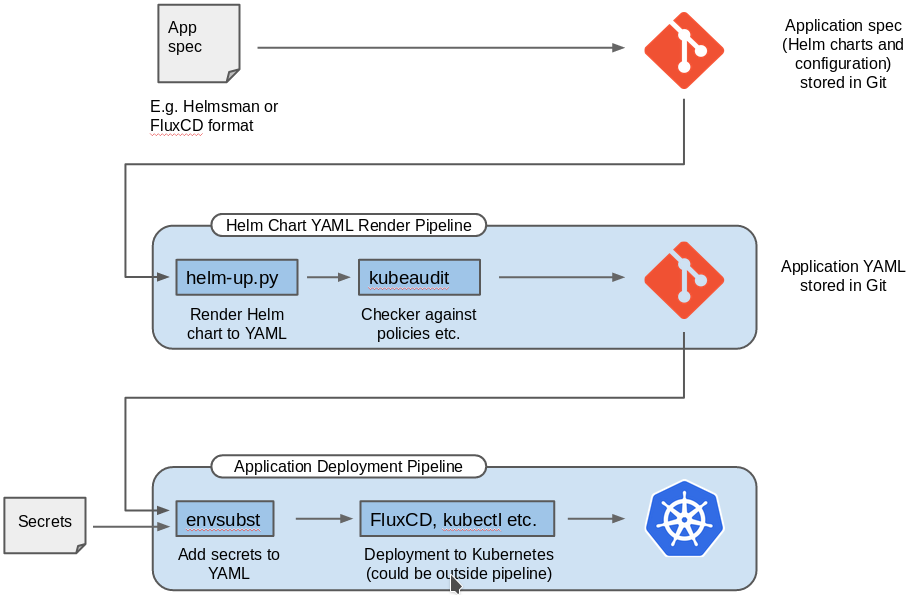
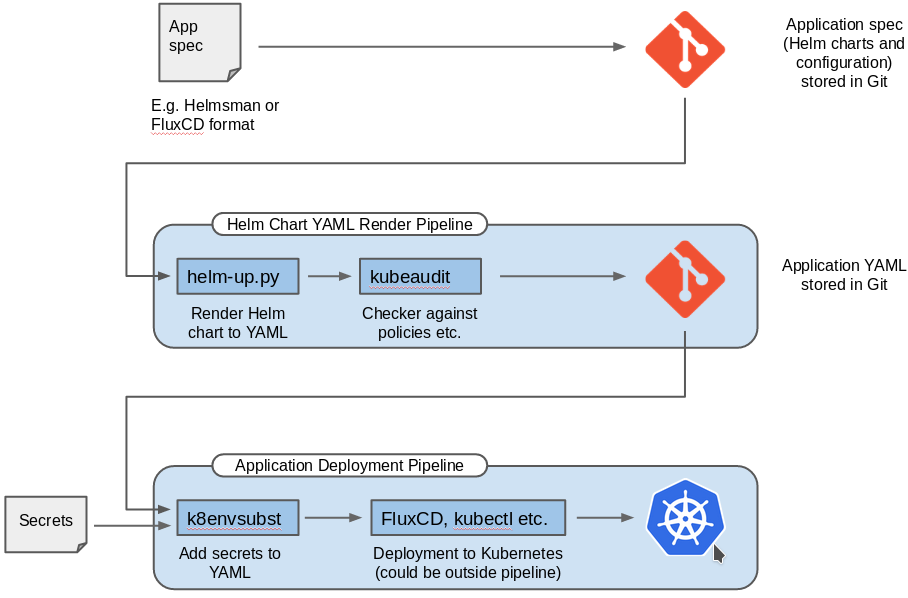
Update environment variable handling, update docs

diff --git a/k8envsubst.py b/k8envsubst.py
@@ -1,0 +1,27 @@
+#!/usr/bin/env python3
+
+import sys, os
+import string
+import yaml
+import logging
+import base64
+
+def main():
+    inp = open(0).read()
+    resources = inp.split('---\n')
+    logging.debug('Found {} resource elements'.format(len(resources)))
+    patched_resources = []
+    for res in resources:
+        res = string.Template(res).safe_substitute(os.environ)
+        res = yaml.load(res, Loader=yaml.FullLoader)
+        if res:
+            if 'kind' in res and 'data' in res and res['kind']=='Secret':
+                for k,v64 in res['data'].items():
+                    v = base64.b64decode(v64)
+                    vrep = string.Template(v.decode('UTF-8','ignore')).safe_substitute(os.environ).encode('UTF-8')
+                    res['data'][k] = base64.b64encode(vrep).decode('UTF-8','ignore')
+            patched_resources.append(yaml.dump(res, default_flow_style=False)) # FIXME, Use Kubernetes natural sort order
+    print('---\n'.join(patched_resources))
+
+if __name__ == "__main__":
+   sys.exit(main())

diff --git a/README.md b/README.md
@@ -53,7 +53,7 @@ helm2yaml.py --render-to final-app.yaml helmsman -f helmsman-app-spec.yaml
 kubectl apply -f final-app.yaml
 ```
 
-Similarly wuth Flux application specs:
+Similarly wuth FluxCD application specs:
 
 ```
 helm2yaml.py --render-to final-app.yaml fluxcd -f fluxcd-app-spec.yaml
@@ -64,6 +64,27 @@ and here `final-app.yaml` could be retained for the audit trail.  If the final
 YAML is retained in e.g. git, the `kubectl apply` command could be replaced by
 deployment on Kubernetes with Flux in a non-Helm mode, i.e. GitOps with an audit
 trail.
+
+#### Handling Secrets
+
+If the application deployment contains secrets which should not be included in
+the rendered YAML, these secrets could be injected at the YAML deployment stage
+using e.g. `envsubst`. Note however, that `envsubst` replace all environment
+variable occurences and e.g. shell scripts being passed into configmaps could
+have environment variables wrongly replaced (potentially with empty
+strings). The Grafana test that is part of the Grafana Helm chart is an example
+of such a situation. If `envsubst` us used, the specific variables that should
+be replaced should be specified as part of the `envsubst` invocation.
+
+**Beware, that secrets have values base64 encoded, i.e. substituting environment
+  variables in Kubernetes secrets is not readily possible with `envsubst`.**
+  
+To work-around this, use the `k8envsubst.py` utility - see the `helmsman.sh`
+Helmsman-replacement script for how to do this. The `k8envsubst.py` utility also
+replaces only defined environment variables, i.e. it does not break shell
+scripts in configmaps.
+
+#### GitOps Application Deployment Pipeline
 
 A GitOps pipeline example is shown below:
 
@@ -109,11 +130,18 @@ Helmsman-replacement script.
 ### Notes
 
 `helm template` ignores namespace, i.e. the namespace is not included in the
-rendered YAML. To include a namespace resource, use the `--create-namespace`
+rendered YAML. To include a namespace resource, use the `--render-namespace-to`
 argument.  Applying rendered YAML with `kubectl` should use an explicit
-namespace argument. Charts that create resources in multiple namespaces may be
-problematic - see [Helm issue
-1744](https://github.com/jetstack/cert-manager/issues/1744)
+namespace argument - see the `helmsman.sh` Helmsman-replacement script for an
+example. Charts that create resources in multiple namespaces may be problematic
+- see e.g. [Helm issue
+1744](https://github.com/jetstack/cert-manager/issues/1744). Luckily such charts
+are rare - known examples are `cert-manager` and `metrics-server`.
+
+Using `helm template` validates the YAML according to the default set of API
+versions. This might not suffice for some charts and thus additional APIs could
+be enabled with the `--api-versions` argument - see the `helmsman.sh`
+Helmsman-replacement script for examples.
 
 Helm2 does not accept repository on the `template` action, i.e. it is generally
 recommended to use helm3.
@@ -121,6 +149,15 @@ recommended to use helm3.
 With Helm applying resources to Kubernetes, a full diff will be applied
 according to the deployed chart, i.e. if subsequent versions of a chart remove
 resources, these will be deleted from Kubernetes. A render-and-run-kubectl
-approach will not.
+approach will thus not delete resources removed between different chart
+versions. Allowing Helm to delete resources is probably also not a good idea in
+production environments!
 
 Dependencies (requirements.yaml in a chart) are handled properly.
+
+Helm use [hooks](https://github.com/helm/helm/blob/master/docs/charts_hooks.md)
+to deploy groups of resources at different points in the deployment lifecycle,
+e.g. a resource with an `helm.sh/hook` annotation containing `post-install`
+means that this resource should be deployed after the main resources. With `helm
+template` the hook statemachine is not available and resources that normally
+would not be deployed might be deployed (e.g. test resources).
